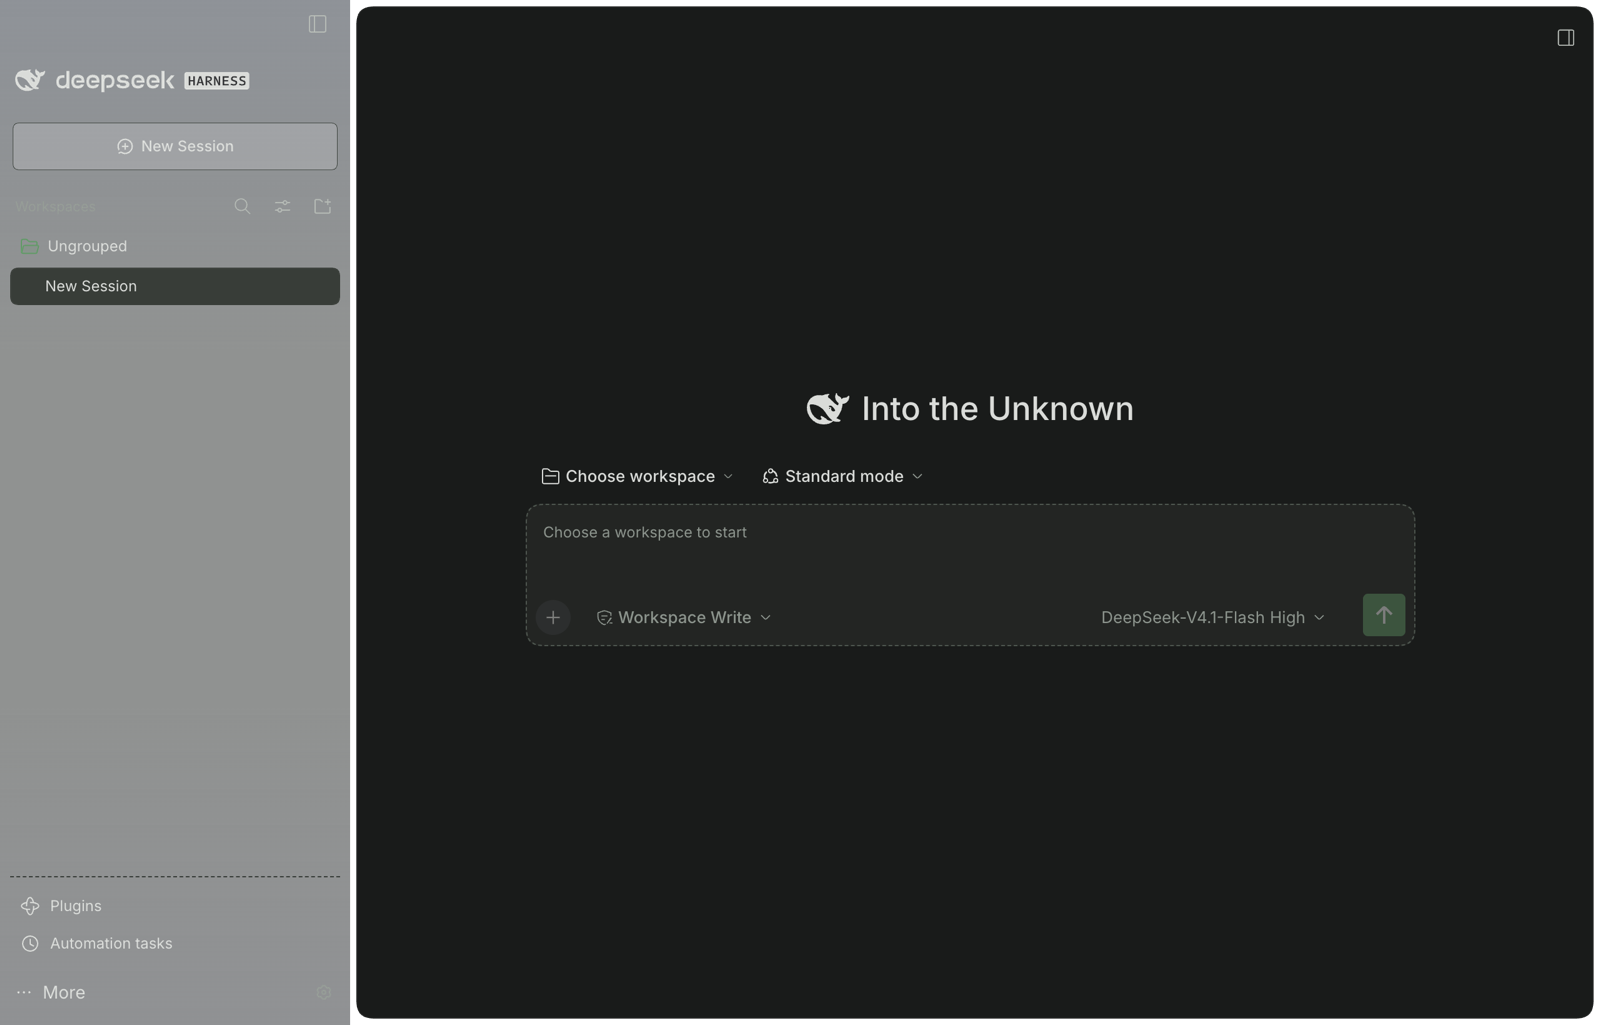
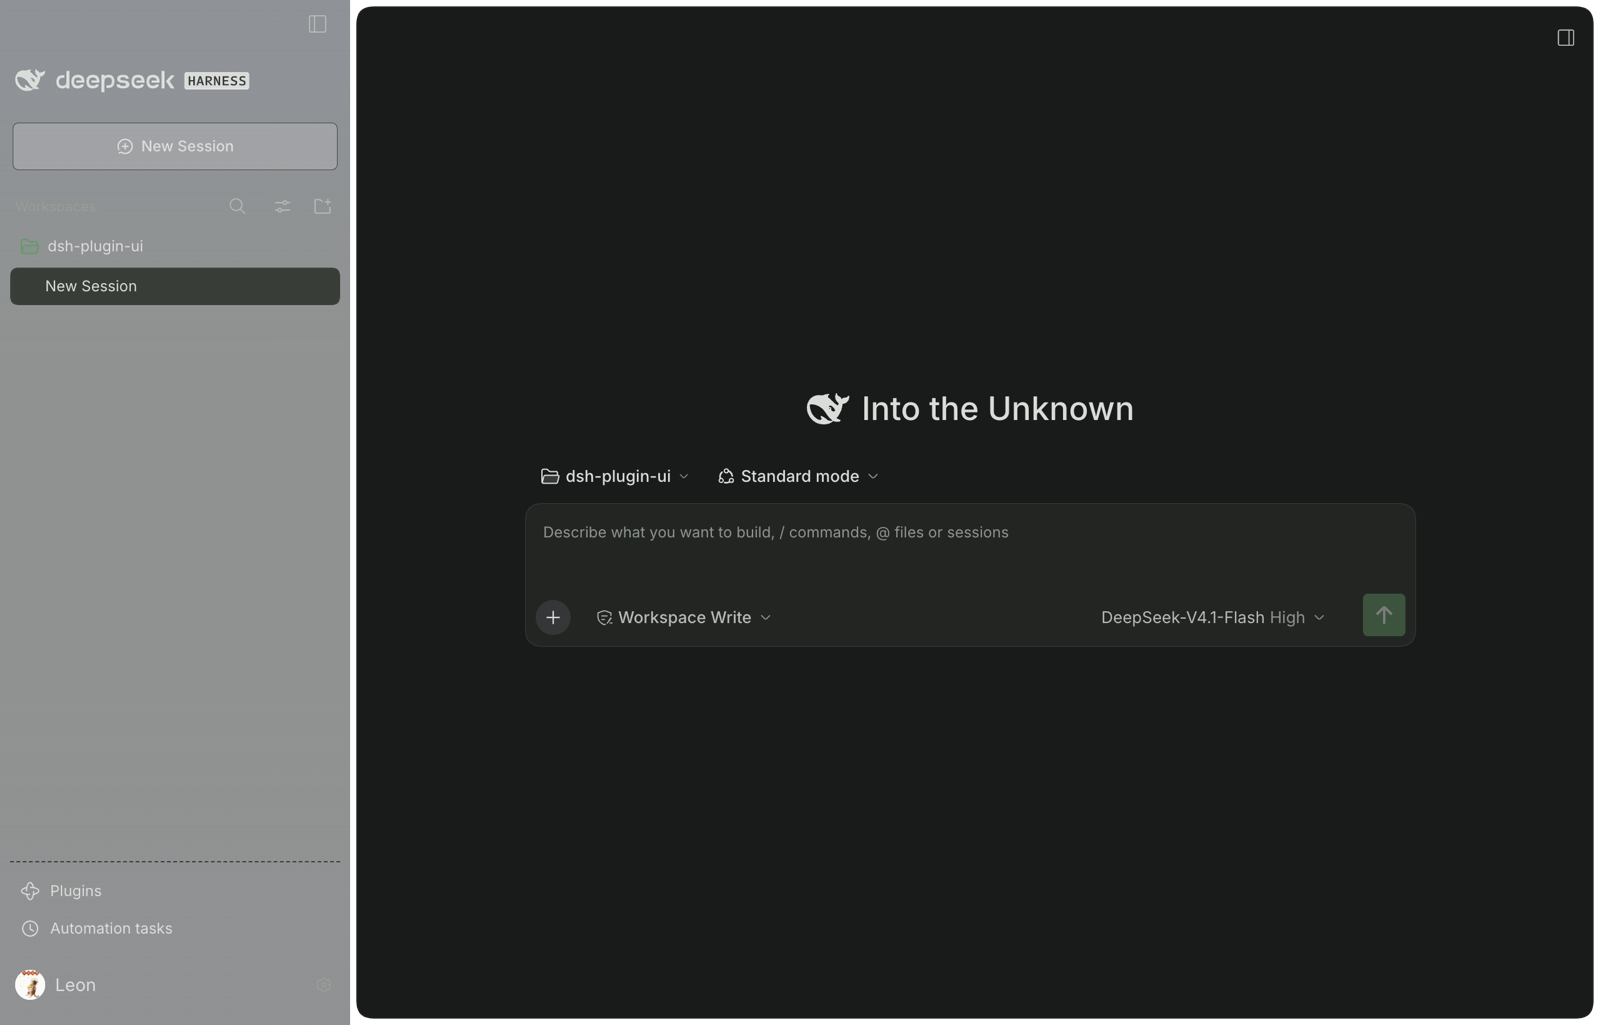
docs: show the model and effort card in the README

diff --git a/README.md b/README.md
@@ -10,6 +10,12 @@ A Qoder-style UI layer for DeepSeek Harness: palette skin, single-card model and
 | --- | --- |
 | ![Qoder UI light](docs/images/showcase-light.png) | ![Qoder UI dark](docs/images/showcase-dark.png) |
 
+*模型与推理强度同一张卡片 / Model and reasoning effort in one card*
+
+![Model and reasoning effort](docs/images/showcase-models.png)
+
+*Appearance 下的调色板预览卡 / Palette previews under Appearance*
+
 ![Palette previews under Appearance](docs/images/showcase-settings.png)
 
 ## 包含的内容
